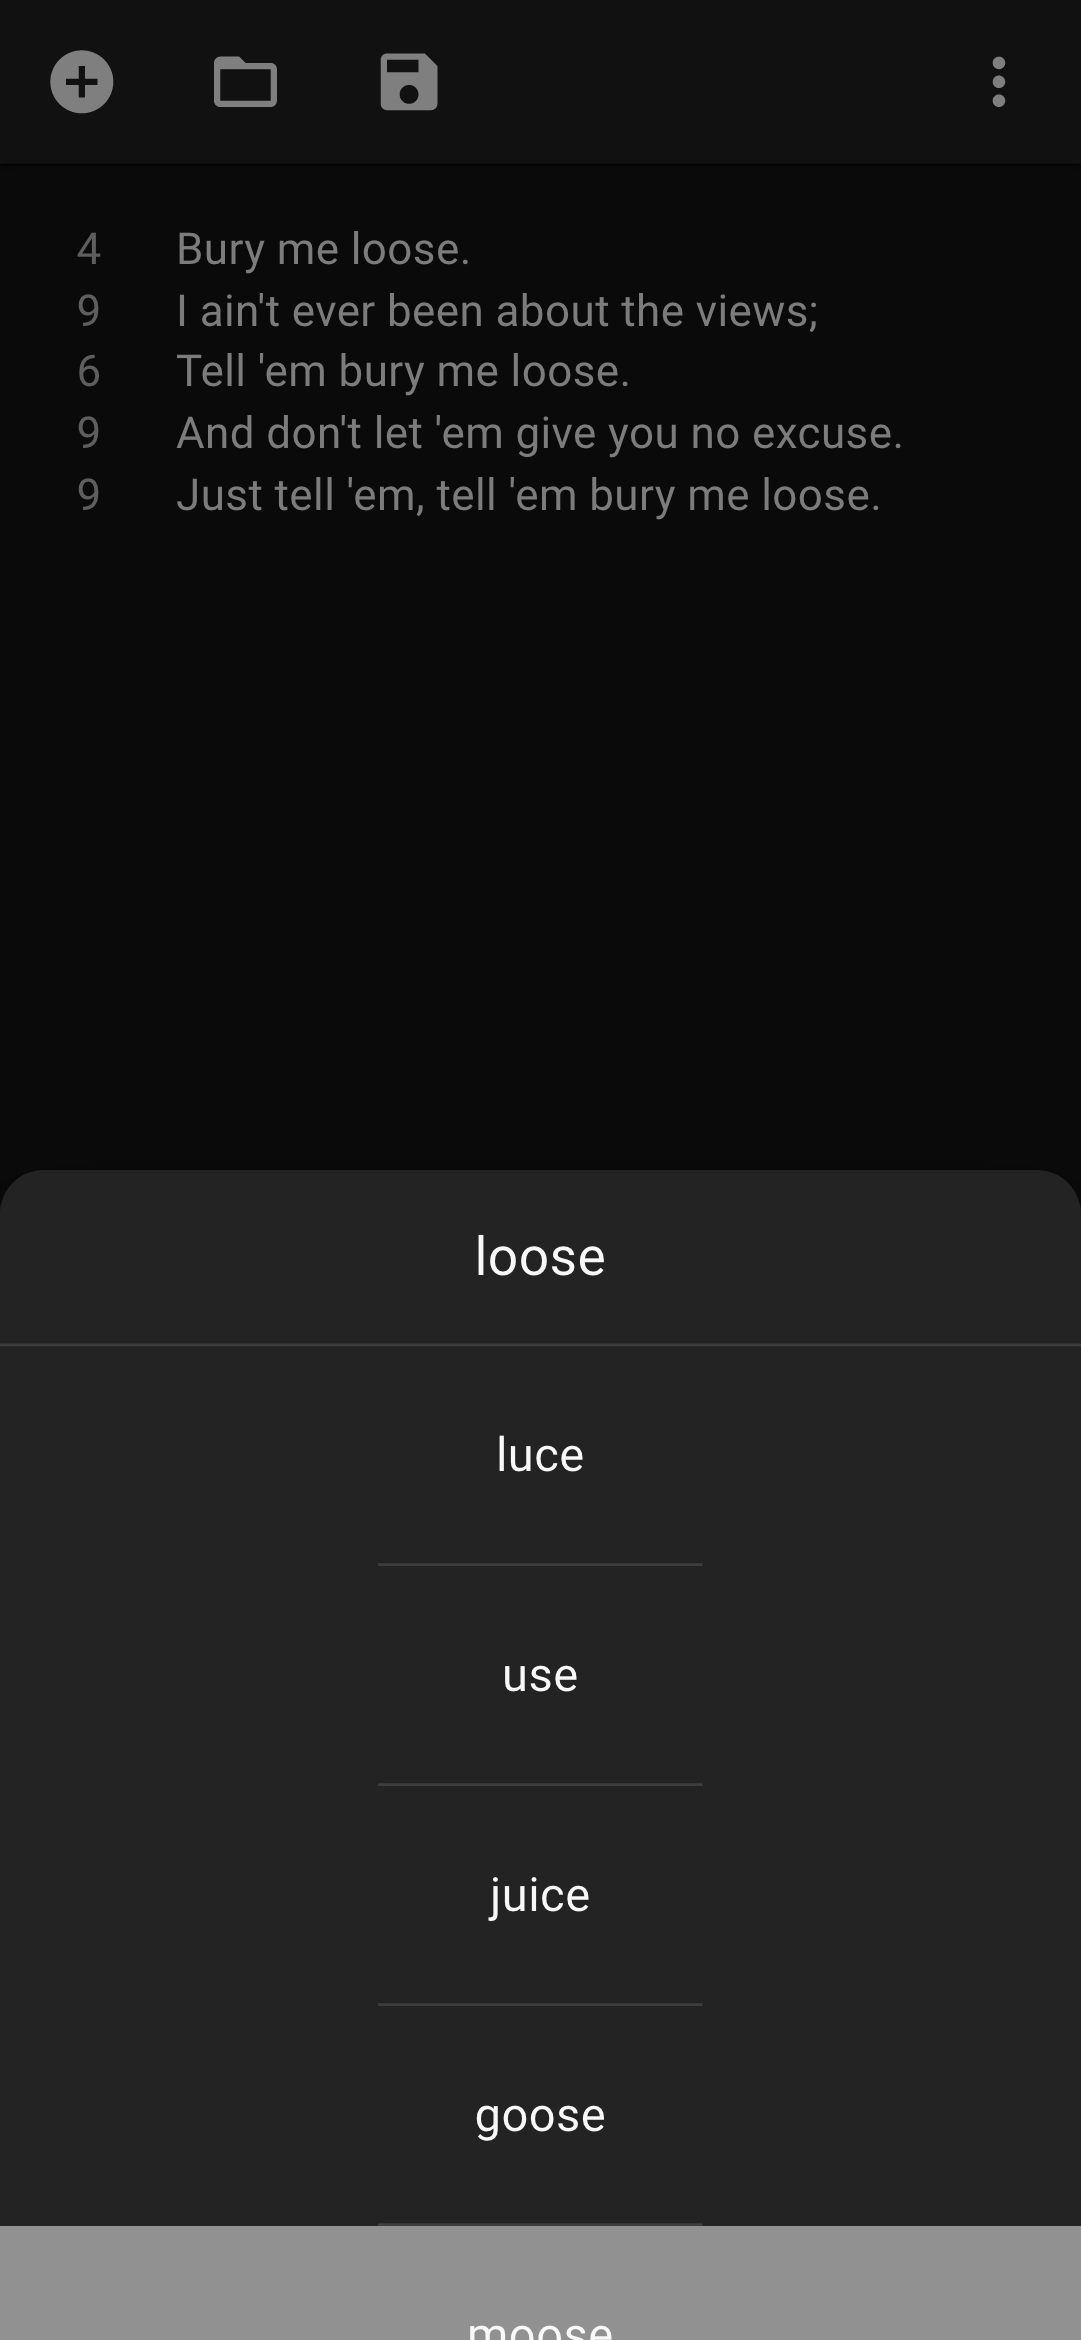
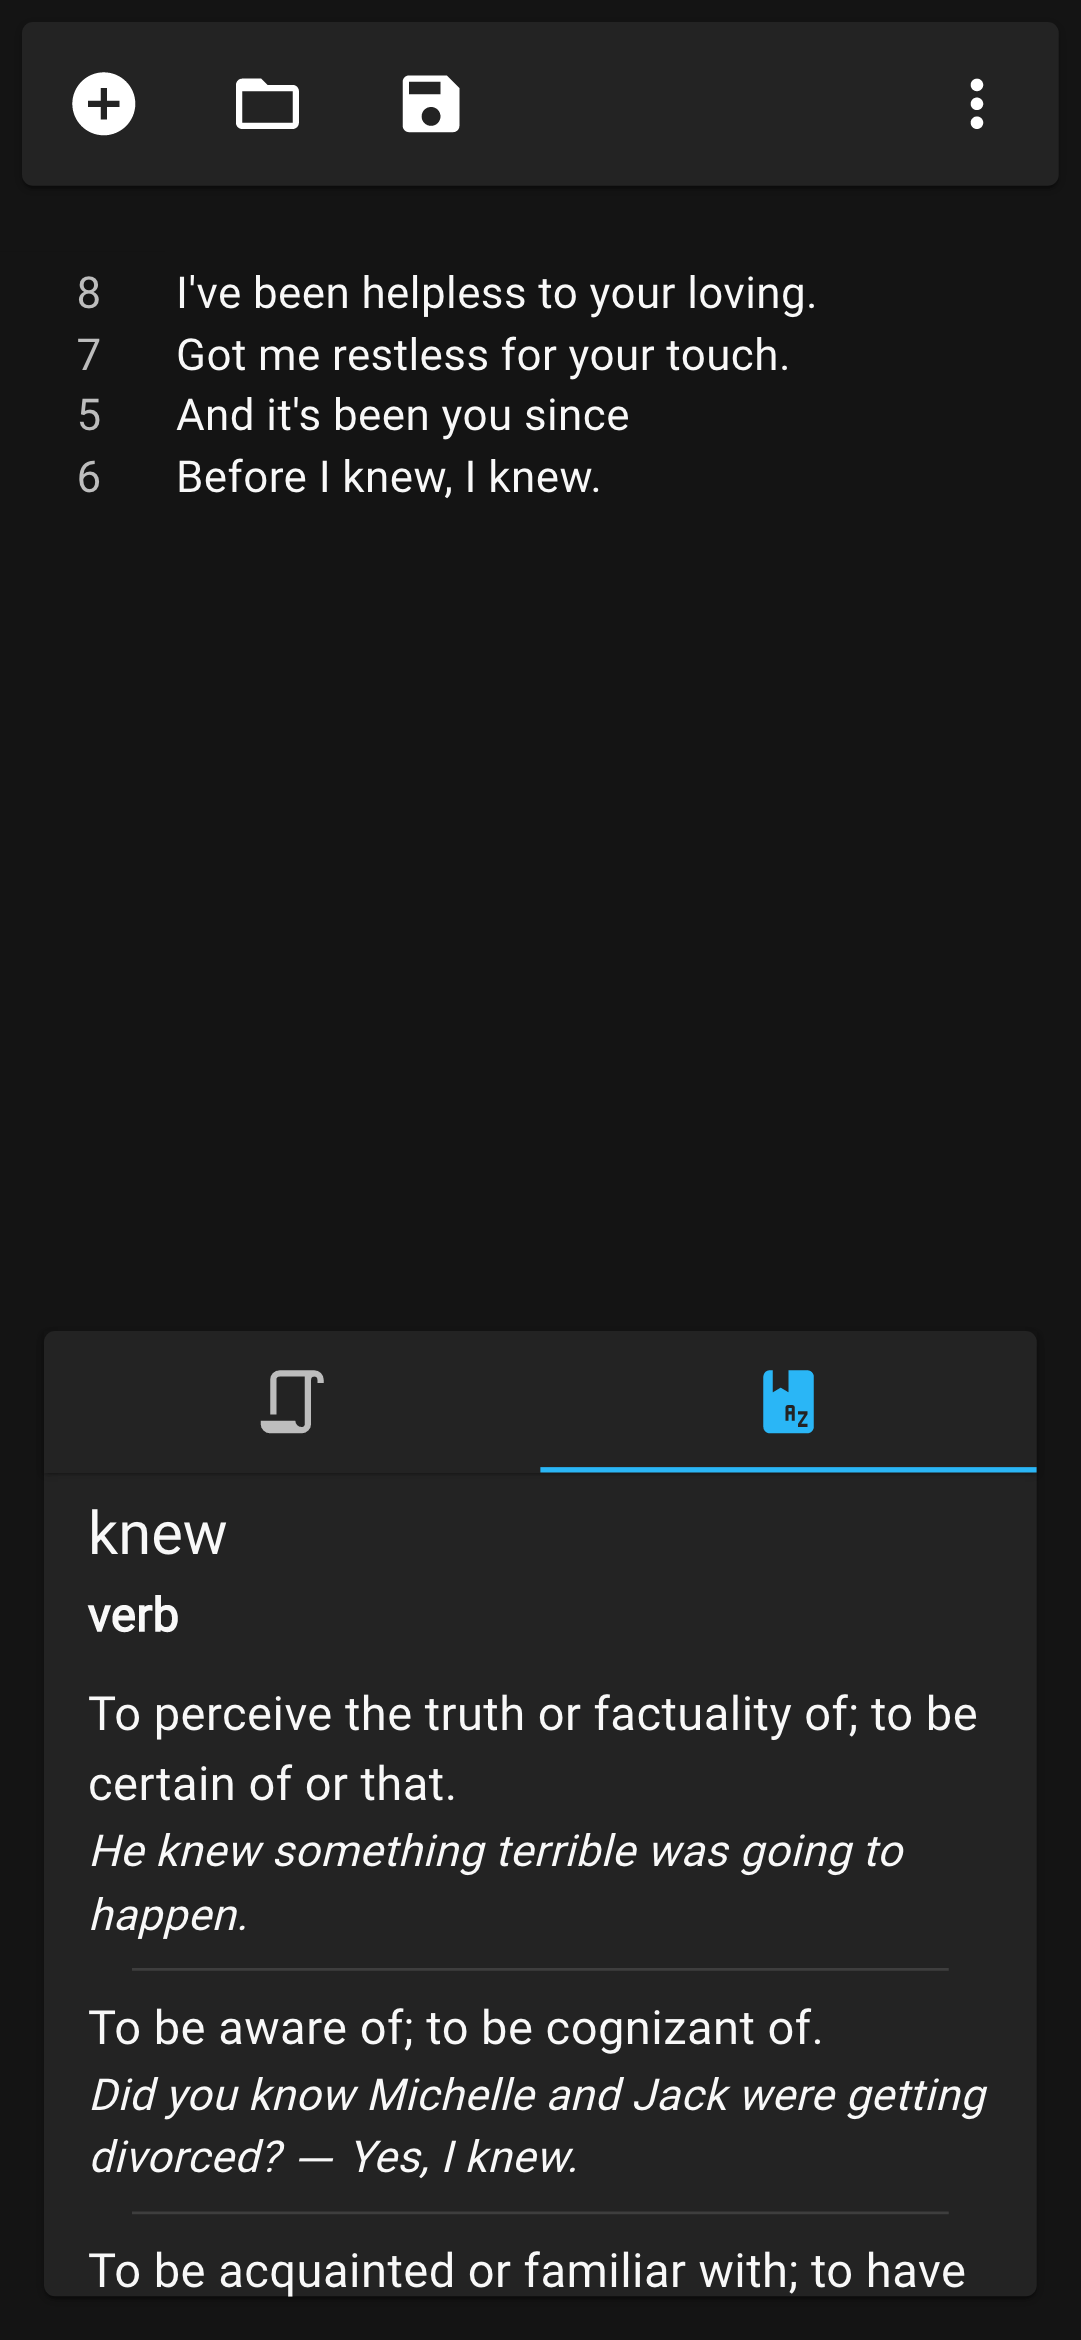
2.0.0

diff --git a/CHANGELOG.md b/CHANGELOG.md
@@ -1,3 +1,25 @@
+# [2.0.0](https://github.com/wardellbagby/lyricistant/compare/v1.4.2+electron...v2.0.0) (2022-08-08)
+
+
+### Bug Fixes
+
+* **web:** stop assuming files were saved when Save Dialog is closed ([32a5bcb](https://github.com/wardellbagby/lyricistant/commit/32a5bcb280d263d9e3e71be748893f2dbd1fa399))
+
+
+### Features
+
+* add in dictionary look-ups when typing lyrics ([007bb5d](https://github.com/wardellbagby/lyricistant/commit/007bb5daafdd1b18457693f909b22039266fb298))
+* add more interesting placeholder text ([868cef4](https://github.com/wardellbagby/lyricistant/commit/868cef4171a130980fb7718350f25ec66bcccf66))
+* change the menu bar to match the new rhymes & dictionary designs ([f85185e](https://github.com/wardellbagby/lyricistant/commit/f85185e803fbdc2ceec976d0d9255b4af8d01e42))
+* revamp rhymes to have a more condensed display ([6a8bcd7](https://github.com/wardellbagby/lyricistant/commit/6a8bcd743887b304a0b01822360458f04b3ad724))
+
+
+### Performance Improvements
+
+* improve fps when actively typing ([35259b9](https://github.com/wardellbagby/lyricistant/commit/35259b92e591b32580cf8d99cb210039de44cc19))
+
+
+
 ## [1.4.2](https://github.com/wardellbagby/lyricistant/compare/v1.4.1...v1.4.2) (2022-07-31)
 
 
